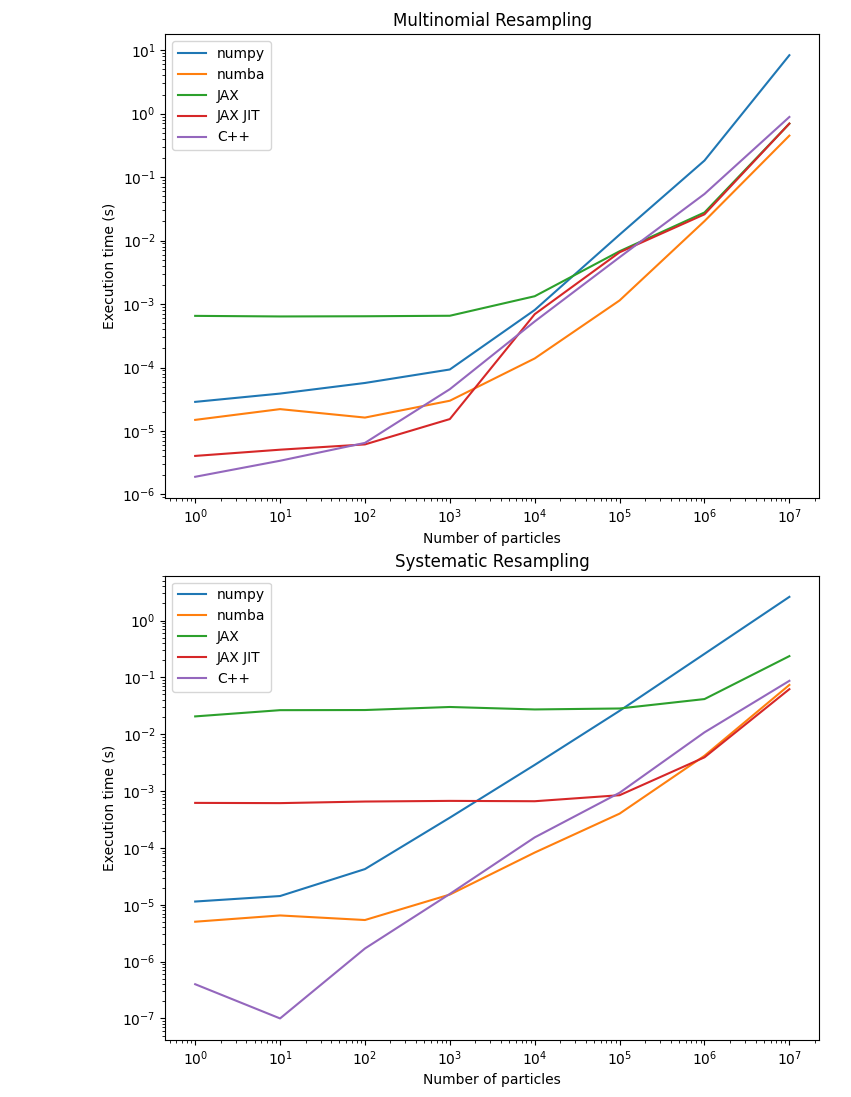
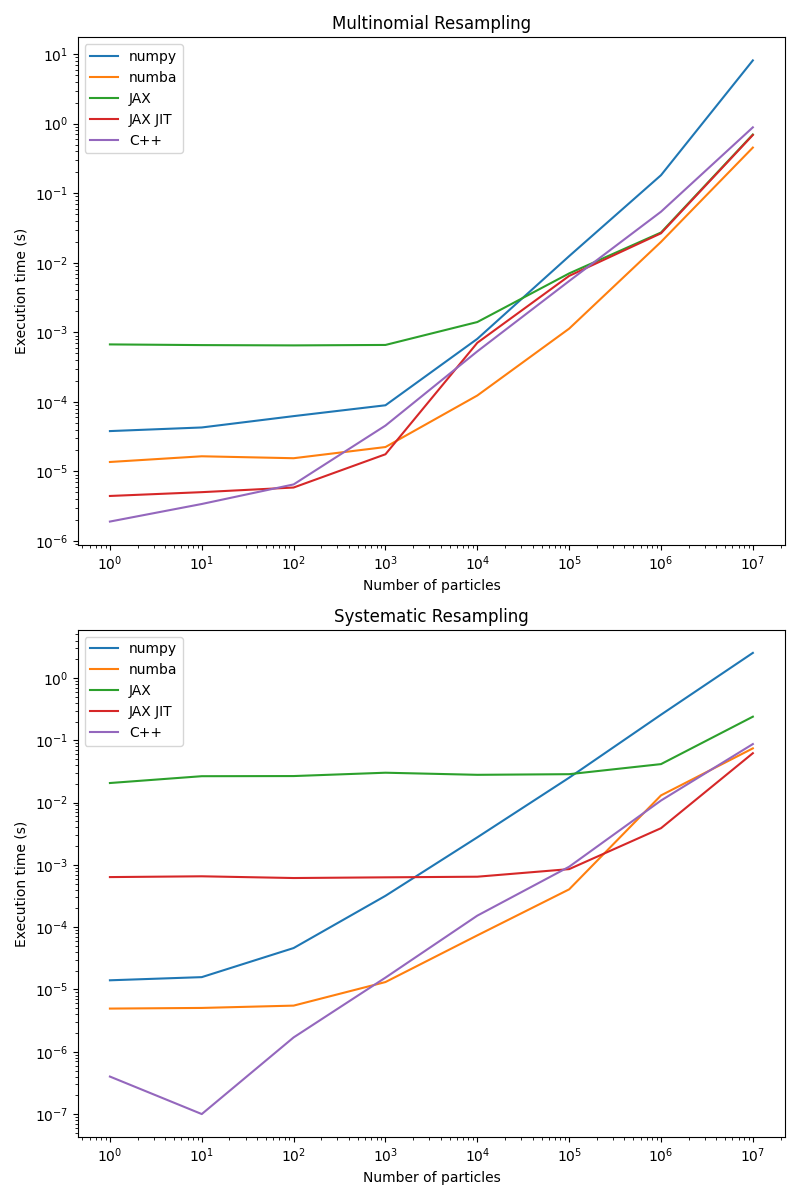
better jax compile graphics

diff --git a/bayesian_final_project.py b/bayesian_final_project.py
@@ -459,7 +459,7 @@ multi_cpp = np.genfromtxt("execution_times_multinomial.csv",delimiter=',')
 sys_cpp = np.genfromtxt("execution_times_systematic.csv",delimiter=",")
 print(multi_cpp[:,1])
 
-fig, ax = plt.subplots(2,1,figsize=(4,12))
+fig, ax = plt.subplots(2,1,figsize=(8,12))
 # plt.figure()
 ax[0].plot(particle_lst,multi_np_times,label="numpy")
 ax[0].plot(particle_lst,multi_numba_times,label="numba")
